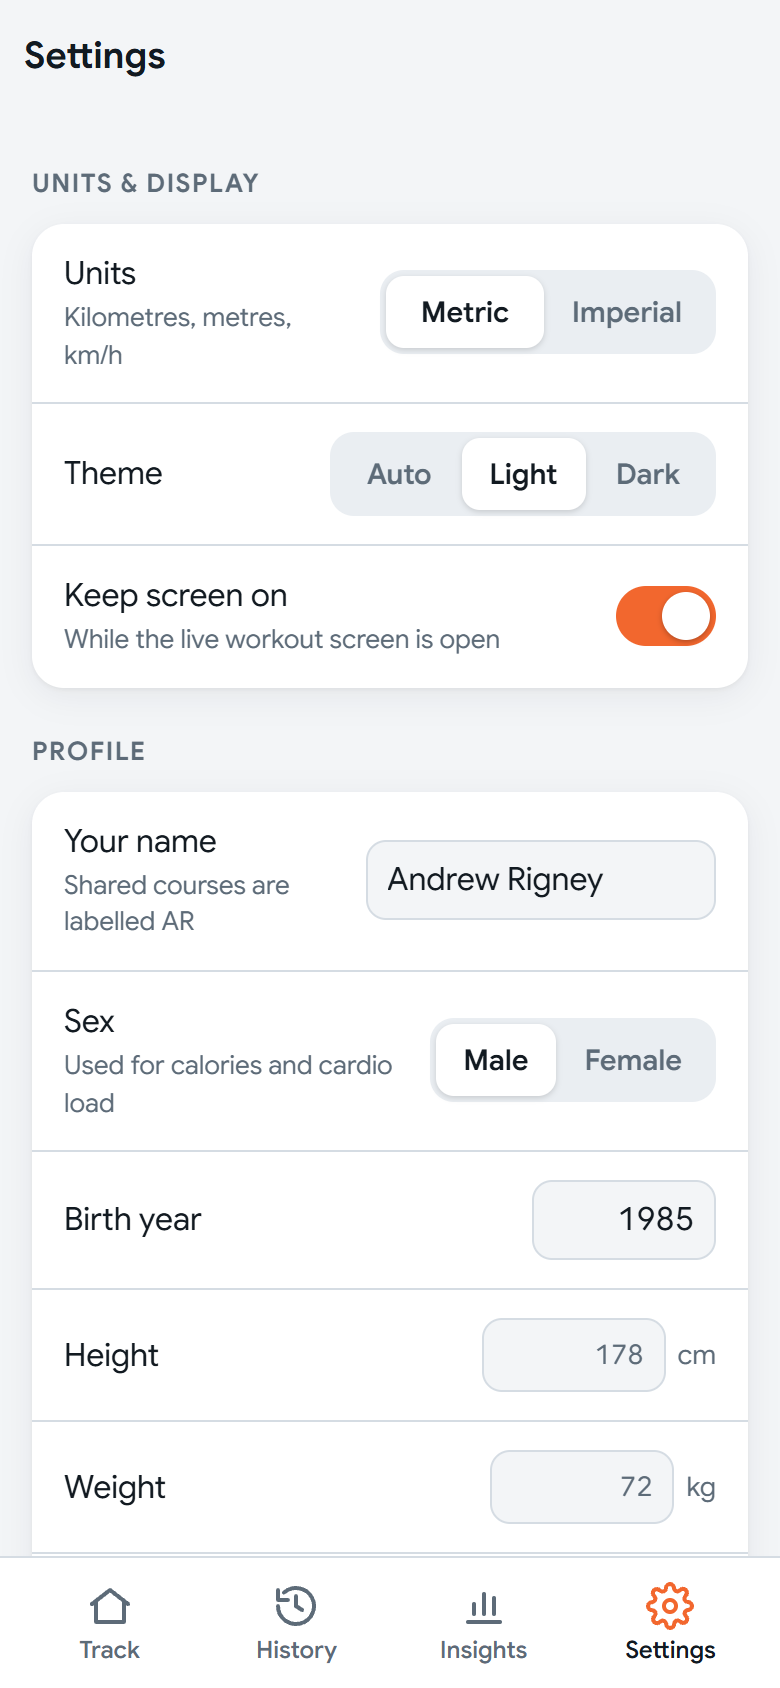
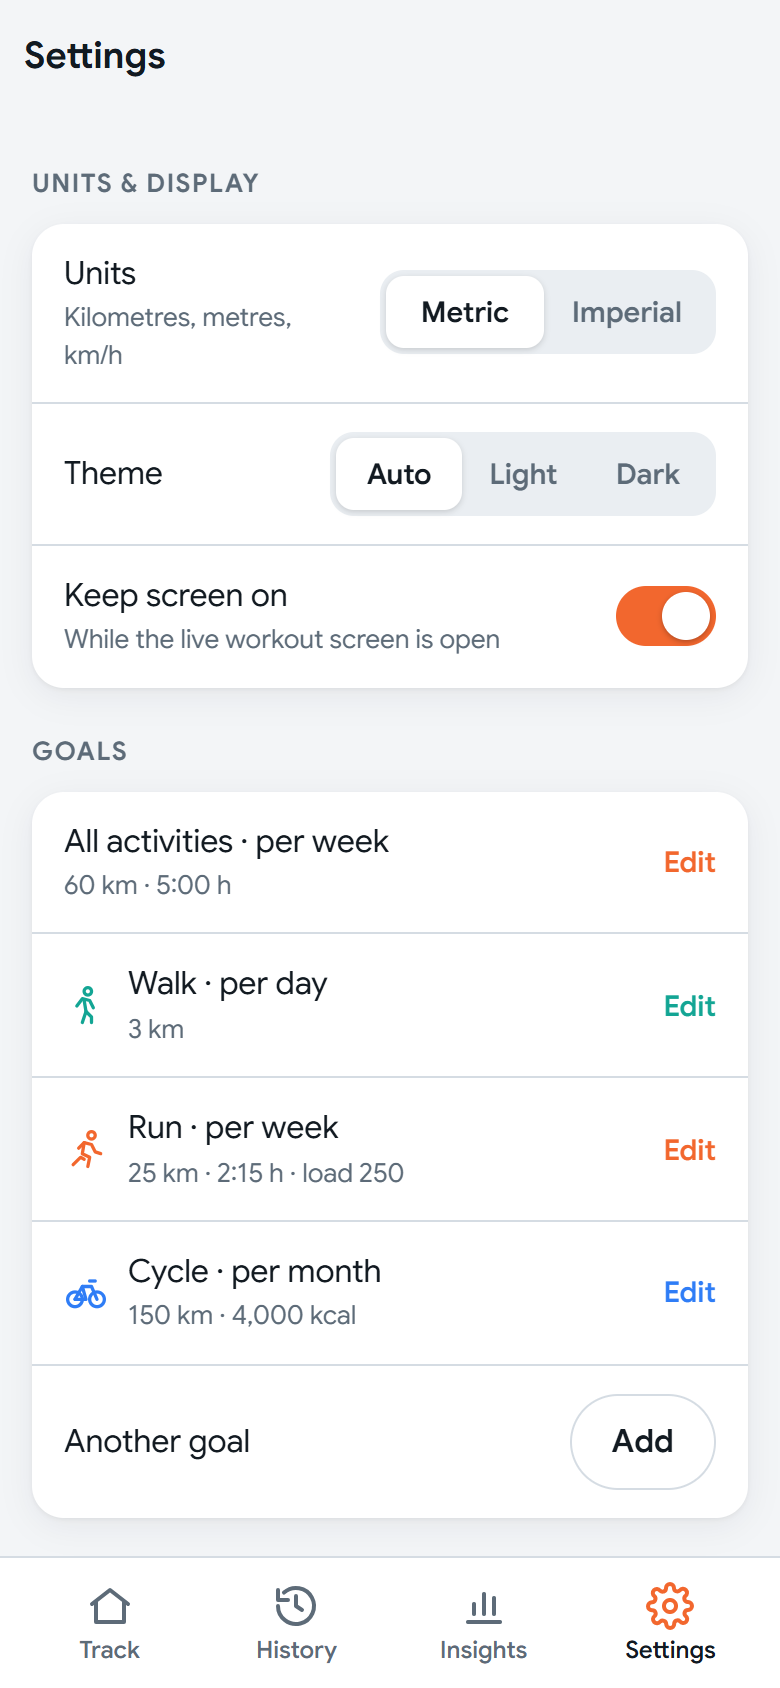
README: Goals section and screenshots
Settings with the Goals section below Units & display, the goal editor, Insights with a
weekly goal line, and the 4x2 widget with its goal line and progress message.

diff --git a/README.md b/README.md
@@ -12,7 +12,9 @@ zones), splits, an interactive map with an elevation side view, or a 3D plot ove
 satellite imagery. Then you can export it as **FIT** (for Strava and Garmin Connect),
 GPX, TCX, KML, GeoJSON or CSV. **Insights** reports your totals and averages by day, week,
 month, quarter or year, per activity or routine, shows your **personal bests**, and
-exports the report as CSV or JSON. You can **share a
+exports the report as CSV or JSON. Set **goals** for distance, time, cardio load or
+calories per day, week or month: Insights charts draw them, and the 4×2 widget tells you
+whether you're ahead or behind for the week. You can **share a
 course** (the route and its altitude, with no times or speeds) by SMS, email or Quick
 Share, and the recipient explores it on the map and in 3D with Locale's **View** tool.
 
@@ -57,6 +59,16 @@ sensors.
   <img src="docs/screenshots/insights-bests.png" width="250" alt="Insights: personal bests per activity, with best average pace, best kilometre split, fastest speed and longest workout, each with its date">
 </p>
 <p align="center">
+  <img src="docs/screenshots/settings.png" width="250" alt="Settings: Units and display, then Goals listing all activities per week, walk per day, run per week and cycle per month, with an Add button">
+  &nbsp;
+  <img src="docs/screenshots/goals.png" width="250" alt="Goal editor: activity chips, Per day, Per week or Per month, and distance, activity time, cardio load and calorie targets">
+  &nbsp;
+  <img src="docs/screenshots/insights-goals.png" width="250" alt="Insights: weekly running distance with a dashed 25 km goal line, and a tooltip for a week 7.4 km short of the goal">
+</p>
+<p align="center">
+  <img src="docs/screenshots/widget-week-chart.png" width="490" alt="4×2 widget: this week's distance, average split and speed, a chart of distance per day with a dashed daily goal line, and You're 3 km ahead of your goal! Well done!!">
+</p>
+<p align="center">
   <img src="docs/screenshots/view-share.png" width="250" alt="Share sheet: Share course section with a Hide start and finish switch, a Share AR City2Surf 2026.gpx button and Share a link to view in a browser">
   &nbsp;
   <img src="docs/screenshots/view-list.png" width="250" alt="View: Open a course file, and the courses opened before with who shared them, distance and climb">
@@ -79,7 +91,8 @@ sensors.
 City2Surf (Hyde Park to Bondi via Heartbreak Hill at 6:18/km, with simulated heart rate).
 It is generated from the course map and is not a real recording. The voice screenshots
 come from the browser simulator. The Insights screenshots use a year of generated
-workouts in the browser build. The View screenshots show the sample shared as a course,
+workouts in the browser build, and the Goals screenshots 16 weeks of them. The 4×2
+widget is on a Pixel 10a. The View screenshots show the sample shared as a course,
 and a generated walk shared with its start and finish hidden; the Locale Viewer screenshot
 is the same course opened from a link in desktop Chrome. The watch screenshots
 are from a Pixel Watch 3; the workout screen uses the debug build's demo mode.</sub>
@@ -113,7 +126,9 @@ are from a Pixel Watch 3; the workout screen uses the debug build's demo mode.</
   Two more show this week (Sunday to Saturday) and open the app when tapped:
   - **2×2 this week:** distance, workout count, average split and speed
   - **4×2 this week:** the same, with a chart of distance per day stacked by activity,
-    as in Insights
+    as in Insights. With a distance [goal](#goals) it draws the goal's share per day as a
+    dashed line and says how the week is going: *"You're 3 km ahead of your goal! Well
+    done!!"* or *"You're a bit behind your goal – you need to go 4.5 km today to catch up"*.
 - **Live screen:**
   - elapsed time
   - distance
@@ -254,6 +269,20 @@ are from a Pixel Watch 3; the workout screen uses the debug build's demo mode.</
     after the `#`, which browsers never send to a server, so the page can be hosted on
     any static host.
 
+### Goals
+- **Set in Settings → Goals:** pick all activities or one, and per day, week or month, then
+  set any of distance, activity time, cardio load and calories. Leave a box empty for no
+  target.
+- **Insights** draws the goal as a dashed line on the chart for the same activity and
+  metric. A goal set for another period is scaled to the chart's grouping: a weekly goal
+  is a seventh of it per day, and a monthly one is spread over the month's days. With all
+  activities in one bar, the line is the All-activities goal, else the activities' goals
+  added up. Tap a bar to see the goal and how much was left, or that it was reached.
+- **The 4×2 widget** counts every activity's distance against the All-activities distance
+  goal, else the activities' distance goals added up (a day or month goal counts as its
+  share of a week). It compares the week so far with an even share per day, Sunday to
+  Saturday, and tells you how far ahead you are, or how far to go today.
+
 ### Insights
 - **Date range:** today, this week (Sunday to Saturday), this month, the last 3 or 12
   months, this year, all time, or custom dates. The ‹ and › arrows step back and forward
@@ -265,6 +294,8 @@ are from a Pixel Watch 3; the workout screen uses the debug build's demo mode.</
 - **Metrics:** distance, average speed and pace (over moving time), activity time,
   average heart rate (max too in exports), cardio load and calories. Totals sit at the top; the chart
   shows the metric you pick (tap a bar for its values), and a table lists every period.
+- **Goal line:** the chart shows your [goal](#goals) for its activity and metric as a
+  dashed line, with how much each period had left to go.
 - **Export** the report as **CSV** (one row per period, or per period and activity) or
   **JSON** (with totals) through the Android share sheet. Values are SI units.
 - **Personal bests**, per activity over all time (following the activity and routine
